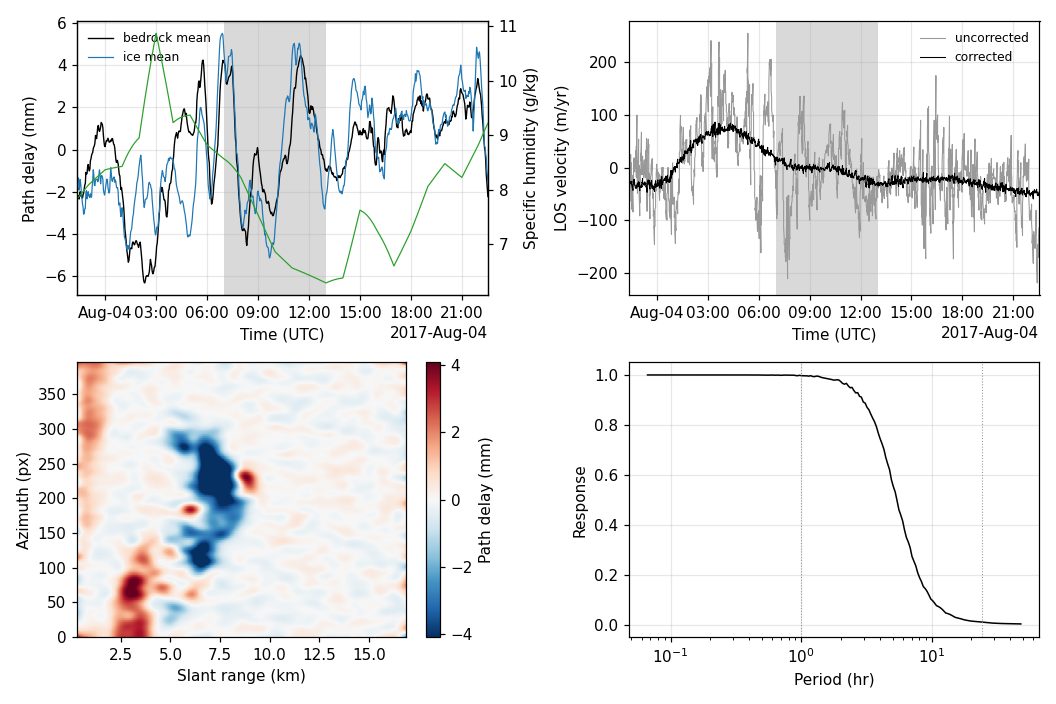
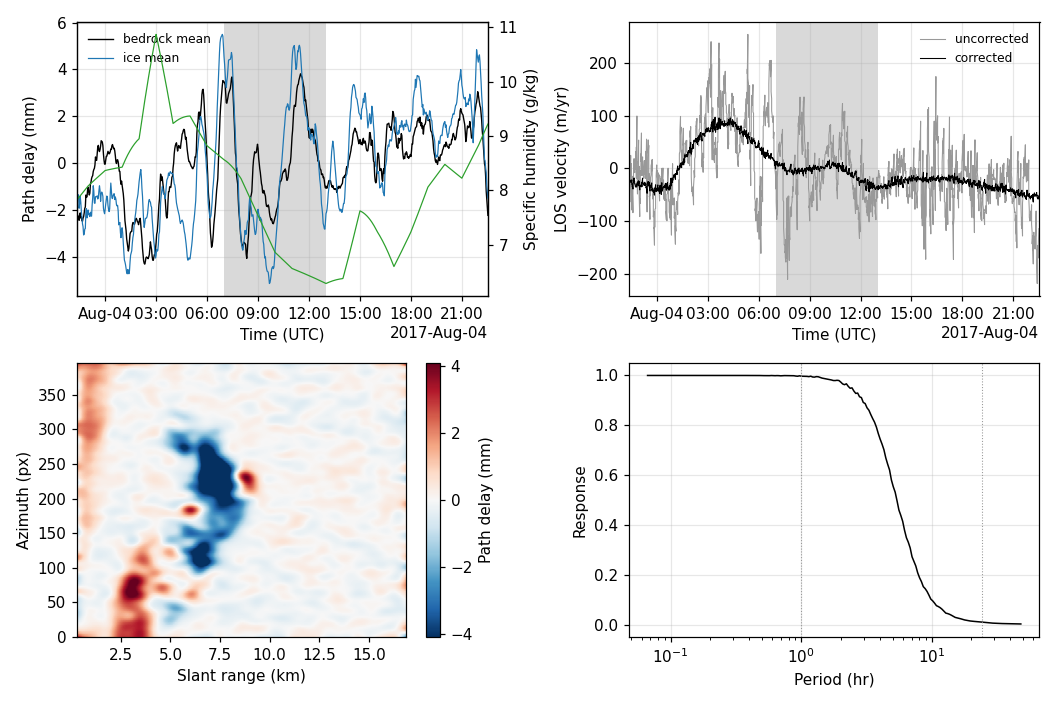
pathdelay: one operator behind every number the run prints
The scene estimator was handed raw 1/variance weights while lambda was
chosen, floored, reported and inverted on the mean-normalised ones, so it
was solved at an effective lam/mean(w) -- on a 400-epoch chain at lags 1-3
that returns 2.6 % of a diurnal where the same run prints 1 %. Normalise
the weights before they go to invert_path_delay; the cache version goes up
again and the six path-delay figures are re-rendered.

Also from the review: a pair with no finite coherence where the fit reads
no longer turns every row weight into NaN (it falls back to the clip's
floor, and a row that reads a hopeless pair carries zero weight while the
rest are unaffected), and baker_catchments / baker_population only pay for
the coherence pass when --path-delay will read it.

docs/pathdelay.md is refreshed from the new runs: the six-campaign table's
scene and trend columns, the single-look and 3 x 15 comparison, the rewrap
paragraph, the discarded-trend and GCV ranges, and the share of a diurnal
the cross-validated weight would return.

diff --git a/gpri_tools/pathdelay.py b/gpri_tools/pathdelay.py
@@ -708,8 +708,13 @@ def pair_variance_from_coherence(coherence, mask=None, clip=(0.05, 0.999)):
     lo, hi = (float(c) for c in clip)
     g = np.empty(len(coherence), float)
     for i, c in enumerate(coherence):
-        g[i] = np.nanmean(np.asarray(c, float)[mask] if mask is not None else c)
-    g = np.clip(g, lo, hi)
+        x = np.asarray(c, float)
+        x = x[mask] if mask is not None else x.reshape(-1)
+        ok = np.isfinite(x)
+        # a pair with nothing finite where the fit reads is as bad as the clip
+        # allows, not a NaN that would spread into every row it enters
+        g[i] = x[ok].mean() if ok.any() else lo
+    g = np.clip(np.where(np.isfinite(g), g, lo), lo, hi)
     return (1.0 - g ** 2) / (2.0 * g ** 2)
 
 
@@ -726,6 +731,8 @@ def double_difference_row_weights(rows, pair_variance, n_pairs=None):
     rows : (n_rows, 2) int array
         :attr:`DoubleDifference.rows` -- the two pairs each row differences.
     pair_variance : (n_pairs,) array
+        A non-finite entry drops the rows that read that pair to zero weight
+        and leaves the others alone.
     n_pairs : int, optional
         Checked against ``pair_variance`` when given.
 
@@ -733,13 +740,20 @@ def double_difference_row_weights(rows, pair_variance, n_pairs=None):
     -------
     row_weights : (n_rows,) array
     """
-    v = np.maximum(np.asarray(pair_variance, float), 1e-30)
+    v = np.asarray(pair_variance, float)
     if n_pairs is not None and v.size != n_pairs:
         raise ValueError(f"pair_variance has {v.size} entries for "
                          f"{n_pairs} pairs")
+    v = np.where(np.isfinite(v), np.maximum(v, 1e-30), np.inf)
     r = np.asarray(rows, int).reshape(-1, 2)
-    w = 1.0 / np.maximum(v[r[:, 0]], v[r[:, 1]])
-    return w / w.mean()
+    with np.errstate(divide="ignore"):
+        w = 1.0 / np.maximum(v[r[:, 0]], v[r[:, 1]])
+    # a row that reads a pair with no variance to speak of carries no weight,
+    # and only that row: the mean is taken over the rows that do
+    good = w > 0
+    if not good.any():
+        raise ValueError("no pair carries a usable variance")
+    return w / w[good].mean()
 
 
 def pair_delay_field(observations, pairs, times, mask, weights=None,

diff --git a/examples/baker_pathdelay.py b/examples/baker_pathdelay.py
@@ -39,7 +39,7 @@ method cannot observe, in the units it would be mistaken for.
 What the correction can reach is set by the operator, not by the data.  A
 component of period T enters the double differences weighted by
 4 sin^2(pi dt / T) / dt, which vanishes as T grows; with the regularisation
-chosen here the gain is ~1 at an hour and 0.002 to 0.010 at a day, measured
+chosen here the gain is ~1 at an hour and 0.001 to 0.010 at a day, measured
 on the operator actually inverted, and the figure's response panel says so
 per campaign.  A diurnal signal, of either origin, passes through this
 correction untouched.
@@ -83,9 +83,10 @@ from gpri_tools.pathdelay import (discarded_rate, double_difference,       # noq
 from gpri_tools.refractivity import specific_humidity                      # noqa: E402
 from gpri_tools.timeseries import los_displacement                         # noqa: E402
 
-# version 5: the rows are weighted by the pairs' coherence, so a cached run
-# from before the weighting answers a different question
-PATHDELAY_CACHE_VERSION = 5
+# version 6: the rows are weighted by the pairs' coherence -- and the scene
+# estimator's weights are normalised like the rest -- so a cached run from
+# before answers a different question
+PATHDELAY_CACHE_VERSION = 6
 
 #: flags that change what the cached numbers answer
 CACHE_ARGS = ("ice_coherence", "stable_coherence", "sigma", "lags", "looks",
@@ -268,7 +269,12 @@ def compute(scene, name, args):
     resp_periods = np.logspace(np.log10(2 * cadence), np.log10(2.0), 200)
     response = np.asarray(system_response(A_w, times, resp_periods, lam), float)
 
+    # invert_path_delay makes its own rows (the smaller of the two pairs'
+    # weights) and does not normalise them, so scale here: every number this
+    # run prints has to come from the same operator lam was chosen on
     w_pair = 1.0 / pair_var
+    w_pair = w_pair / np.minimum(w_pair[system.rows[:, 0]],
+                                 w_pair[system.rows[:, 1]]).mean()
     loose = invert_path_delay(scene_series, pairs, times, lam=lam, weights=w_pair)
     trend = float(discarded_rate(loose.delay, times, pairs))
     delays = {"scene": invert_path_delay(scene_series, pairs, times, lam=lam,

diff --git a/tests/test_pathdelay.py b/tests/test_pathdelay.py
@@ -1025,3 +1025,33 @@ def test_displacement_delay_field_passes_the_pair_variance_through():
                             net.pairs, net.times, mask, sigma=(0.5, 0.5),
                             protect_period=None, lam=1e-3, pair_variance=v)
     assert np.allclose(a, b)
+
+
+def test_pair_variance_falls_back_when_a_pair_has_nothing_finite():
+    cc = np.full((3, 4, 4), 0.8)
+    cc[1] = np.nan
+    v = pair_variance_from_coherence(cc, clip=(0.05, 0.999))
+    good = (1 - 0.8 ** 2) / (2 * 0.8 ** 2)
+    assert np.allclose(v[[0, 2]], good)
+    assert np.isclose(v[1], (1 - 0.05 ** 2) / (2 * 0.05 ** 2))   # the clip's floor
+
+
+def test_one_bad_pair_only_zeroes_the_rows_that_read_it():
+    net = _chain(n_epochs=8, lags=(1, 2))
+    pairs = np.asarray(net.pairs, int)
+    sysd = double_difference(pairs, net.times)
+    v = np.full(pairs.shape[0], 0.2)
+    v[3] = np.nan
+    w = double_difference_row_weights(sysd.rows, v, pairs.shape[0])
+    reads_it = (sysd.rows == 3).any(axis=1)
+    assert np.all(w[reads_it] == 0.0)
+    assert np.all(np.isfinite(w)) and np.all(w[~reads_it] > 0)
+    assert np.isclose(w[~reads_it].mean(), 1.0)
+
+
+def test_row_weights_refuse_a_variance_with_nothing_usable():
+    net = _chain(n_epochs=5, lags=(1,))
+    sysd = double_difference(np.asarray(net.pairs, int), net.times)
+    with pytest.raises(ValueError, match="usable variance"):
+        double_difference_row_weights(sysd.rows, np.full(len(net.pairs), np.nan),
+                                      len(net.pairs))

diff --git a/examples/baker_population.py b/examples/baker_population.py
@@ -161,8 +161,9 @@ def main():
         ice = usable & ~stable
     fit_m, held_m = split_mask(stable)
     # each pair is worth what its coherence over the pixels the fit reads says;
-    # held-out bedrock scores this script, so it is not among them
-    pair_var = pair_variance_from_coherence(cc[:n], ice | fit_m)
+    # held-out bedrock scores this script, so it is not among them.  A pass
+    # over the whole stack, so only when the delay stage will read it
+    pair_var = pair_variance_from_coherence(cc[:n], ice | fit_m) if args.path_delay else None
     del cc
     span = float(net.times[-1] * 24)
     print(f"{day}: {n} pairs over {span:.1f} h; ice {ice.sum():,} px, "

diff --git a/examples/baker_catchments.py b/examples/baker_catchments.py
@@ -119,8 +119,9 @@ def compute(scene, args):
     stable, _ = stable_ground_mask(mean_cc, geom, gdf, threshold=args.stable_coherence)
     coherent = mean_cc >= args.ice_coherence
     trusted = coherent | stable
-    # each pair is worth what its coherence over the trusted pixels says
-    pair_var = pair_variance_from_coherence(cc[:n], trusted)
+    # each pair is worth what its coherence over the trusted pixels says --
+    # a pass over the whole stack, so only when the delay stage will read it
+    pair_var = pair_variance_from_coherence(cc[:n], trusted) if args.path_delay else None
     del cc
 
     # the named glaciers with enough coherent ice to average

diff --git a/docs/pathdelay.md b/docs/pathdelay.md
@@ -42,7 +42,7 @@ dimensional, so the answer is unique only after a representative is chosen.
 instead the trend that would change the mean apparent velocity, so that the
 correction provably leaves every rate alone. The examples use `pin_rate`,
 and report the trend so discarded — the size of the unobservable part, in
-the units it would otherwise be mistaken for: between **−1.01 and +1.22
+the units it would otherwise be mistaken for: between **−0.96 and +1.21
 m/yr** across the six campaigns.
 
 **Slow atmosphere, or unsteady flow.** Motion and delay enter identically,
@@ -55,8 +55,8 @@ and the regularised solve returns `g^2 / (g^2 + lam)` of it.
 `frequency_response` evaluates that product for one equally spaced triplet
 and `system_response` measures it on the operator actually being inverted.
 **Left to cross-validation it is not small on every campaign:** GCV gives
-`20170713_full` a response of 0.58 at 24 h, so the correction would take more
-than half of any diurnal signal with it. That is what the weight floor below
+`20170713_full` a response of 0.44 at 24 h, so the correction would take
+nearly half of any diurnal signal with it. That is what the weight floor below
 is for, and the examples apply it by default.
 
 ## Three estimators, and the split-half score
@@ -87,19 +87,19 @@ rows weighted by the pairs' coherence as the script does:
 
 | campaign | epochs | baselines (min) | lam | raised by the floor | response 2 h | response 24 h | `scene` rock | `pixel` rock | `smooth` rock | `smooth` ice | trend discarded (m/yr) |
 |---|---:|---|---:|---|---:|---:|---:|---:|---:|---:|---:|
-| `20170713_full` | 271 | 4.1–42.7 | 6.412 | from 0.023 | 0.975 | 0.010 | 69.4 % | 86.1 % | 3.9 % | 5.3 % | +0.08 |
-| `20170803_full` | 723 | 2.0–6.3 | 20.19 | no | 0.734 | 0.001 | 42.3 % | 83.2 % | 4.4 % | 7.7 % | −1.07 |
-| `20170827` | 1,335 | 2.0–19.3 | 0.878 | from 0.224 | 0.977 | 0.010 | 64.9 % | 89.5 % | 5.3 % | 9.7 % | +0.18 |
-| `20170913` | 437 | 2.0 | 7.647 | no | 0.864 | 0.004 | 58.4 % | 89.4 % | 2.9 % | 16.4 % | +0.22 |
-| `20180808` | 1,227 | 2.0–26.9 | 1.048 | from 0.173 | 0.973 | 0.010 | 66.9 % | 89.9 % | 5.0 % | 7.7 % | −1.31 |
-| `20190719` | 1,137 | 1.2–173.6 | 2.044 | from 0.269 | 0.950 | 0.010 | 60.4 % | 88.7 % | 5.6 % | 10.6 % | +1.52 |
+| `20170713_full` | 271 | 4.1–42.7 | 6.412 | from 0.023 | 0.975 | 0.010 | 67.0 % | 86.1 % | 3.9 % | 5.3 % | +0.06 |
+| `20170803_full` | 723 | 2.0–6.3 | 20.19 | no | 0.734 | 0.001 | 40.1 % | 83.2 % | 4.4 % | 7.7 % | −0.96 |
+| `20170827` | 1,335 | 2.0–19.3 | 0.878 | from 0.224 | 0.977 | 0.010 | 63.5 % | 89.5 % | 5.3 % | 9.7 % | +0.37 |
+| `20170913` | 437 | 2.0 | 7.647 | no | 0.864 | 0.004 | 55.7 % | 89.4 % | 2.9 % | 16.4 % | +0.03 |
+| `20180808` | 1,227 | 2.0–26.9 | 1.048 | from 0.173 | 0.973 | 0.010 | 62.0 % | 89.9 % | 5.0 % | 7.7 % | −0.74 |
+| `20190719` | 1,137 | 1.2–173.6 | 2.044 | from 0.269 | 0.950 | 0.010 | 57.9 % | 88.7 % | 5.6 % | 10.6 % | +1.21 |
 
 Held-out bedrock carries 12,369 to 23,034 pixels per campaign and the
 coherent ice 25,418 to 33,652; the fit and held halves are within one pixel
 of each other by construction.
 
 Three things the table says. The `scene` estimator, fitted on bedrock the
-score never uses, takes 42 to 69 % off the bedrock scatter. The `pixel`
+score never uses, takes 40 to 67 % off the bedrock scatter. The `pixel`
 control takes 83 to 90 % off every mask including the held-out one — it is fitting each pixel's own noise, which is what a system
 with one unknown per epoch and one observation per pair does, and it is in
 the table to say that such a number measures nothing. Of that per-pixel
@@ -168,23 +168,23 @@ an rms of 2.88 mm on every mask. `gpri_tools.pathdelay.rewrap_to_chain`
 (`--rewrap` in `baker_pathdelay.py`) moves each longer baseline by whole
 cycles onto the chain sum and leaves anything smaller than a cycle alone.
 That brings the closure to 0.000 mm, takes the scene estimator's held-out
-score from −34.1 % to −49.2 % (the chain alone: −42.3 %), its GCV weight
-from 1,363 down to the 41.5 floor and its delay rms from 0.68 to
-2.36 mm; the smooth estimator (`pair_delay_field`, σ = (5, 25), 24 h held
+score from −32.7 % to −45.2 % (the chain alone: −40.1 %), its GCV weight
+from 1,363 down to the 41.5 floor and its delay rms from 0.61 to
+1.79 mm; the smooth estimator (`pair_delay_field`, σ = (5, 25), 24 h held
 to 1 %, measured before the row weighting went into the scripts) goes from
 −4.1 % to −6.9 % on held-out rock and from −6.4 % to −11.1 % on the ice, on
 an apparent-velocity scatter that the rewrap itself raises from 337.8 to
 375.2 m/yr on held-out rock before any correction.
 (`baker_pathdelay.py --scene 20170803_full --lags 1 2 3 --rewrap`, whose
 `smooth` row is the per-pixel cube Gaussian-filtered rather than
-`pair_delay_field`, prints for held-out rock 69.8 → 35.5 m/yr, 49.2 %, on
+`pair_delay_field`, prints for held-out rock 69.8 → 38.2 m/yr, 45.2 %, on
 the scene estimator, 375.2 → 60.0, 84.0 %, per pixel and 375.2 → 353.1,
-5.9 %, smoothed, and 16.8 %, 82.8 % and 9.7 % on the ice.) On the
+5.9 %, smoothed, and 15.5 %, 82.8 % and 9.7 % on the ice.) On the
 multilooked `20170913` (3 × 15 looks, 1,305 pairs, 437 epochs) the same
 operation moves 3.0 % of the fit-rock samples at lag 2 and 4.0 % at lag 3
 (0.6 % and 1.2 % of the ice; 27 % and 34 % of all finite pixels), takes the
 per-pixel lag-2 closure from 1.41 to 0.64 mm on rock and 0.65 to 0.18 mm on
-ice, and changes the scores by at most 2.4 points: scene −59.3 % → −59.5 %,
+ice, and changes the scores by at most 2.4 points: scene −56.5 % → −56.6 %,
 smooth −12.9 % → −11.7 % on held-out rock and −34.4 % → −36.8 % on the ice
 (those two also from the unweighted `pair_delay_field`), with the held-out
 scatter before correction going 167.8 → 182.2 m/yr.
@@ -243,7 +243,7 @@ this to long baselines, and expect it to do nothing at short ones.
 
 | estimator | single look, dec 16 | 3 x 15 looks, lags 1+2+3 |
 |---|---:|---:|
-| `scene` | 58.4 % | 59.3 % |
+| `scene` | 55.7 % | 56.5 % |
 | `pixel` (the self-fitting control) | 89.4 % | 55.1 % |
 | `smooth` | **2.9 %** | **10.8 %** |
 | `smooth`, on ice | 16.4 % | 31.4 % |
@@ -336,10 +336,10 @@ convention, not a measurement.
 ## Keeping it off the signal you mean to measure
 
 The cross-validated weight is not safe by default. Across the six campaigns
-GCV picks `lam` over three orders of magnitude (0.014 to 15), and with it the
-share of a diurnal the inversion returns runs from 0.0002 to 0.58. On
-`20170713_full`, at the top of that range, applying the correction takes
-**27 %** of the ice's diurnal amplitude with it.
+GCV picks `lam` over three orders of magnitude (0.023 to 20), and with it the
+share of a diurnal the inversion returns runs from 0.0015 to 0.44. On
+`20170713_full`, at the top of that range, the correction would take 44 % of
+a 24 h component with it.
 
 `lambda_for_system_response` fixes that by choosing the weight from the
 response instead of from the data: it bisects until `system_response` — the
